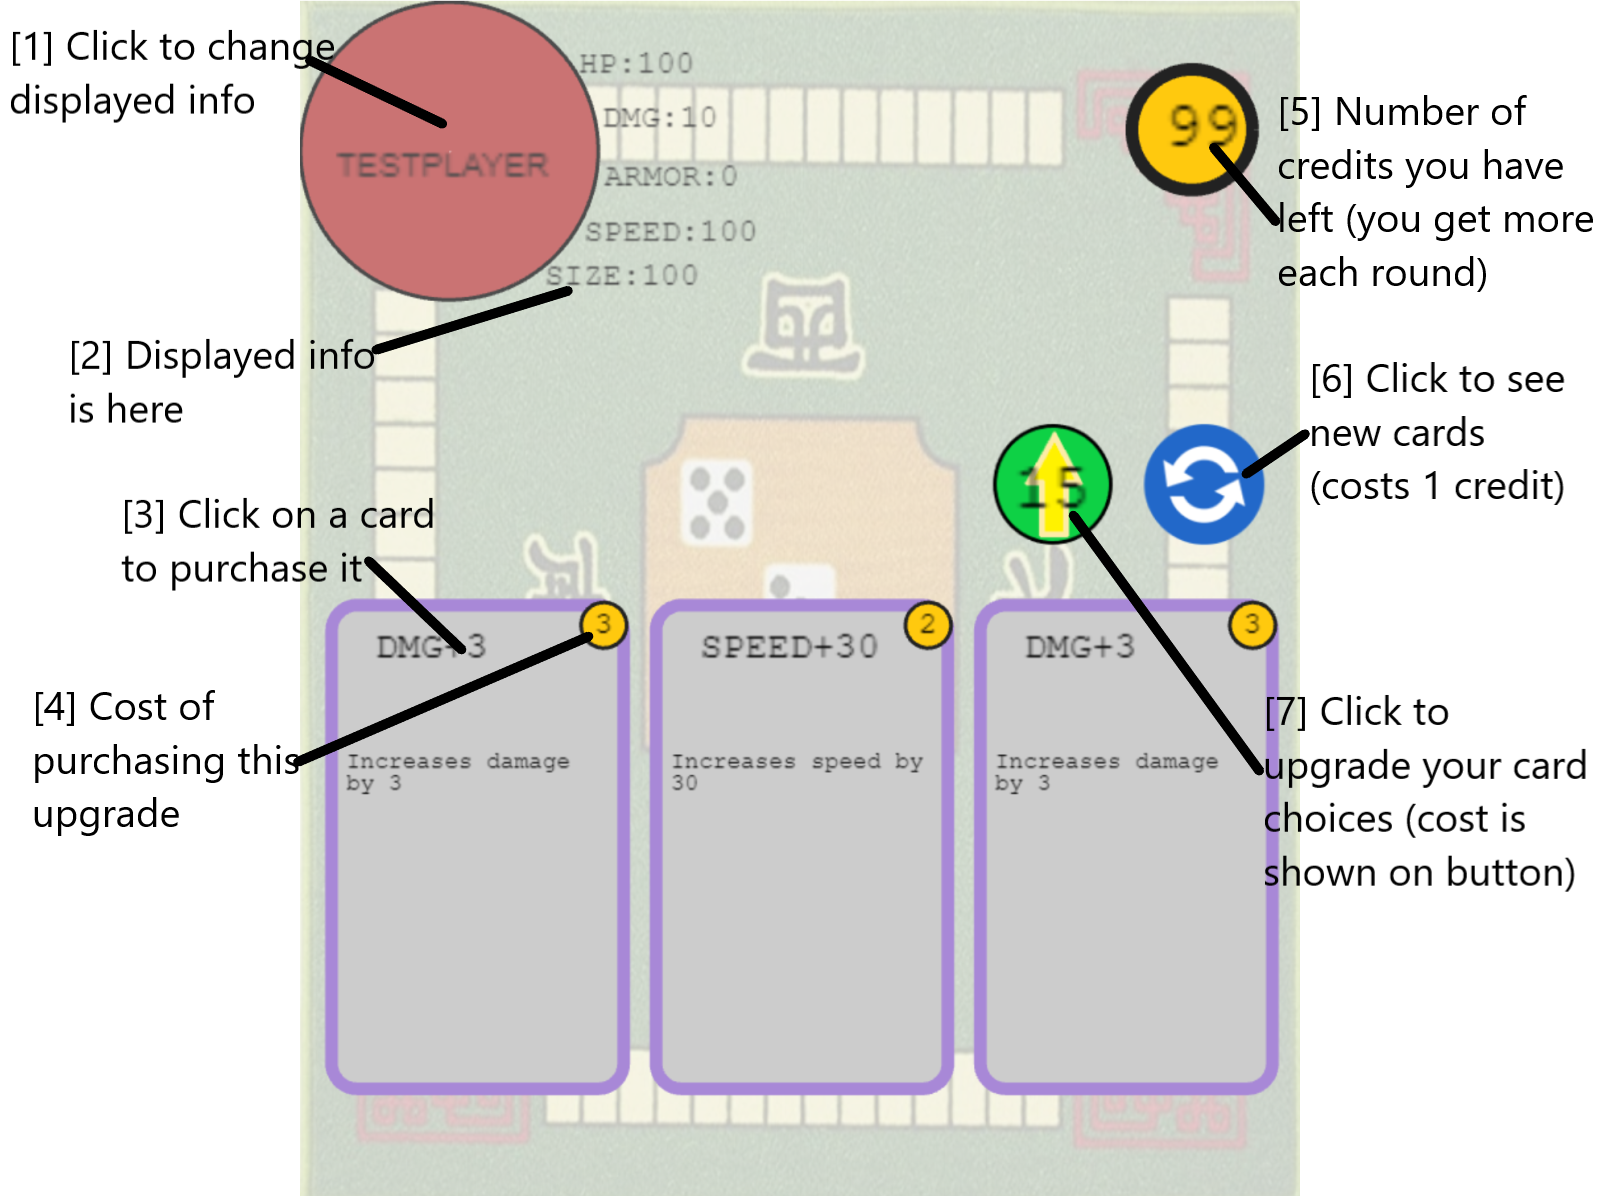
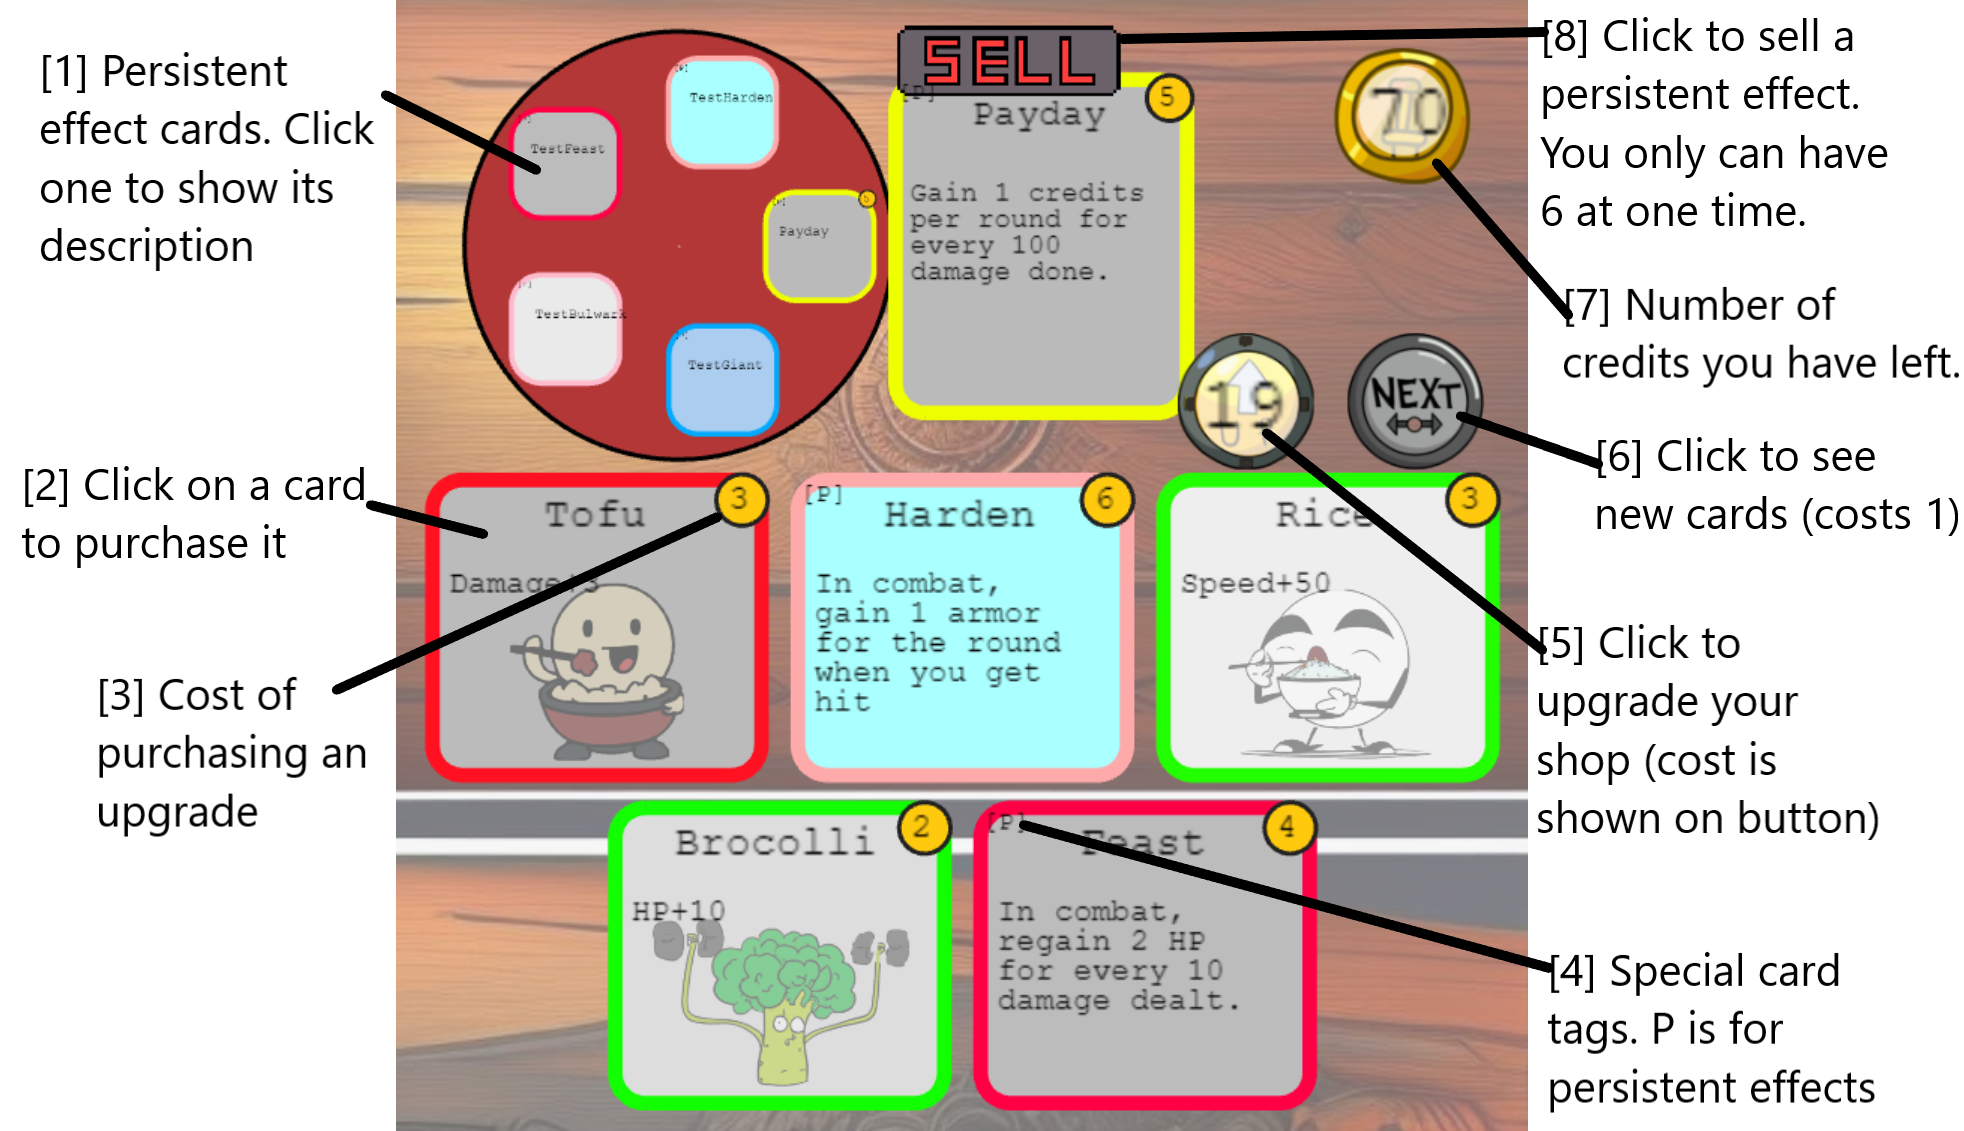
Update instructional image (#88)

diff --git a/wwwroot/Swollball/Swollball_Instructions.html b/wwwroot/Swollball/Swollball_Instructions.html
@@ -6,7 +6,7 @@
 </head>
 <body>
     <div class="h4">
-        <img src="/content/instructionalimage.png" />
+        <img src="/content/instructionalimage.png" width="100%"/>
         <br />
         <h3>OBJECTIVE</h3>
         You own a ball. Every round, your ball goes into an arena with other balls. <br />
@@ -25,11 +25,12 @@
         The number of credits you have left will be displayed in the top-right. <br />
         Click on an upgrade card to buy it. Buying a card will refresh the shop. <br />
         Pressing the refresh icon will also refresh the shop. Refreshing costs 1 credit. <br />
-        Clicking on your ball will alternate between showing your stats and showing notable upgrades. <br />
+        Your persistent upgrades are shown on your ball. Click them to see what they do. Click them again to hide the description. <br />
         <br />
         <h3>BUYING UPGRADES</h3>
         You can buy upgrades that you can't afford. The debt will be collected on the next round. <br />
         Unspent credits at the end of every round will be thrown away. <br />
+        A round ends when combat ends. Upgrades bought during combat will apply in the next round. <br />
         At the end of every round, you will get more credits. The amount you are given increases per round. <br />
         You start with a "Payday" upgrade which gives you credits when you do damage. <br />
         As long as you have credits, you can continue buying upgrades after the round starts. However, they won't apply until the next round. <br />
@@ -37,7 +38,7 @@
         <br />
         <h3>UPGRADING THE SHOP</h3>
         Upgrading the shop gives you better upgrades. <br />
-        This adds the better upgrades into the pool - old upgrades will stil show up. <br />
+        This adds the better upgrades into the pool - old upgrades will still show up. <br />
         Upgrading the shop also allows you to see more upgrades per refresh. <br />
         <br />
         <a href="/">back</a>
